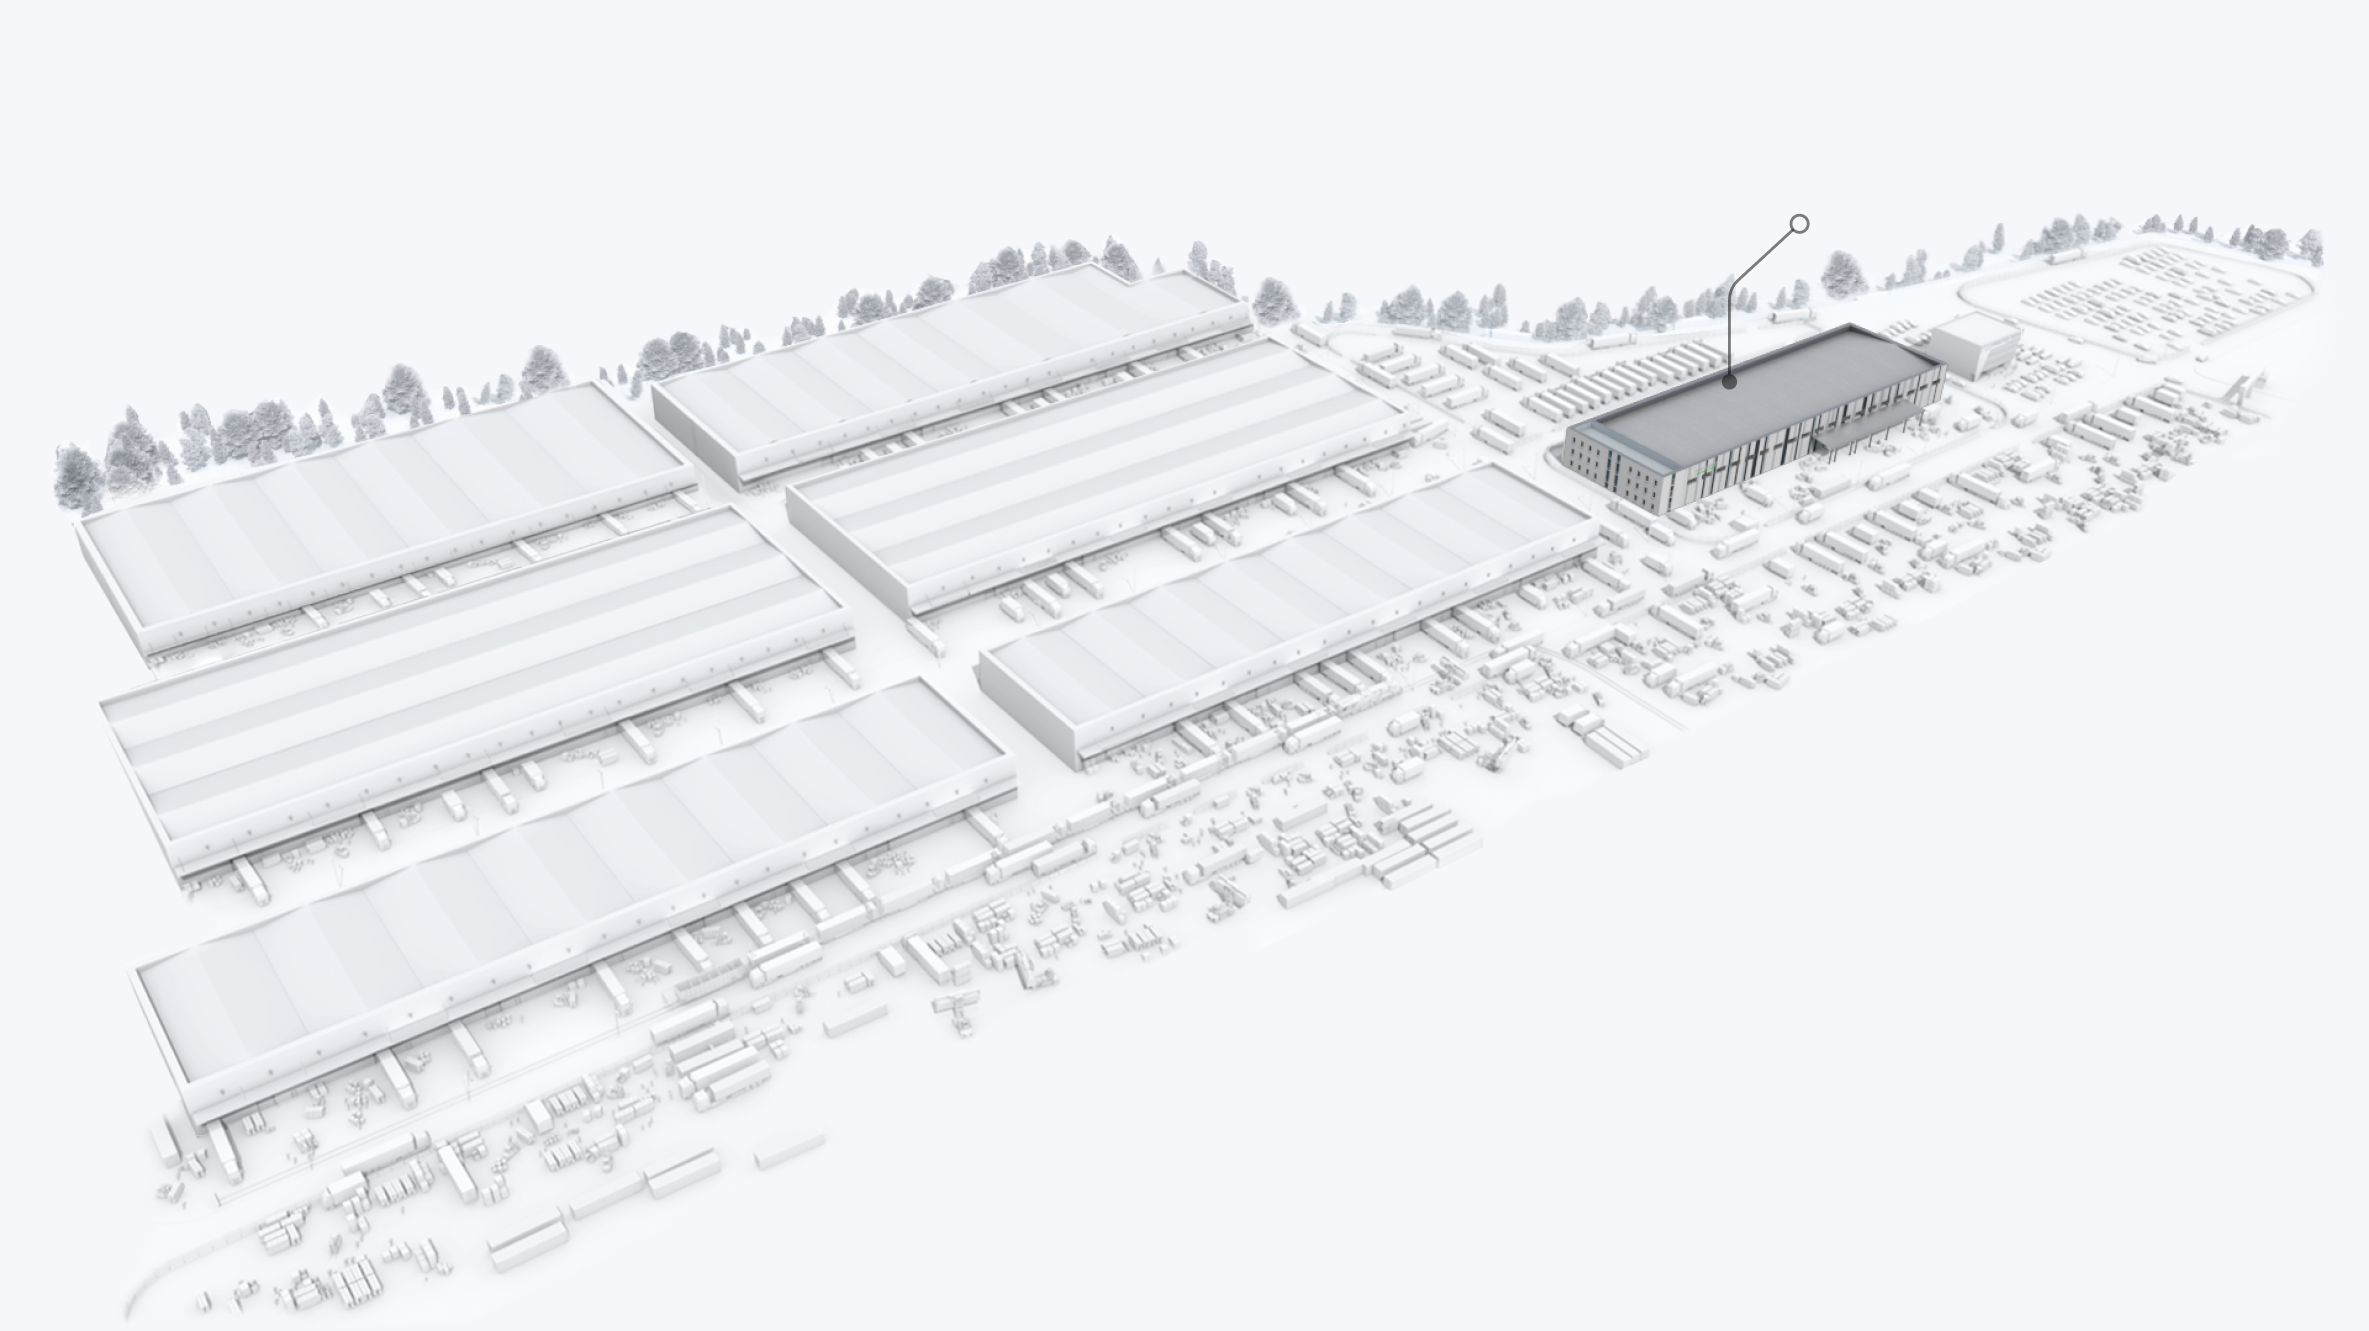
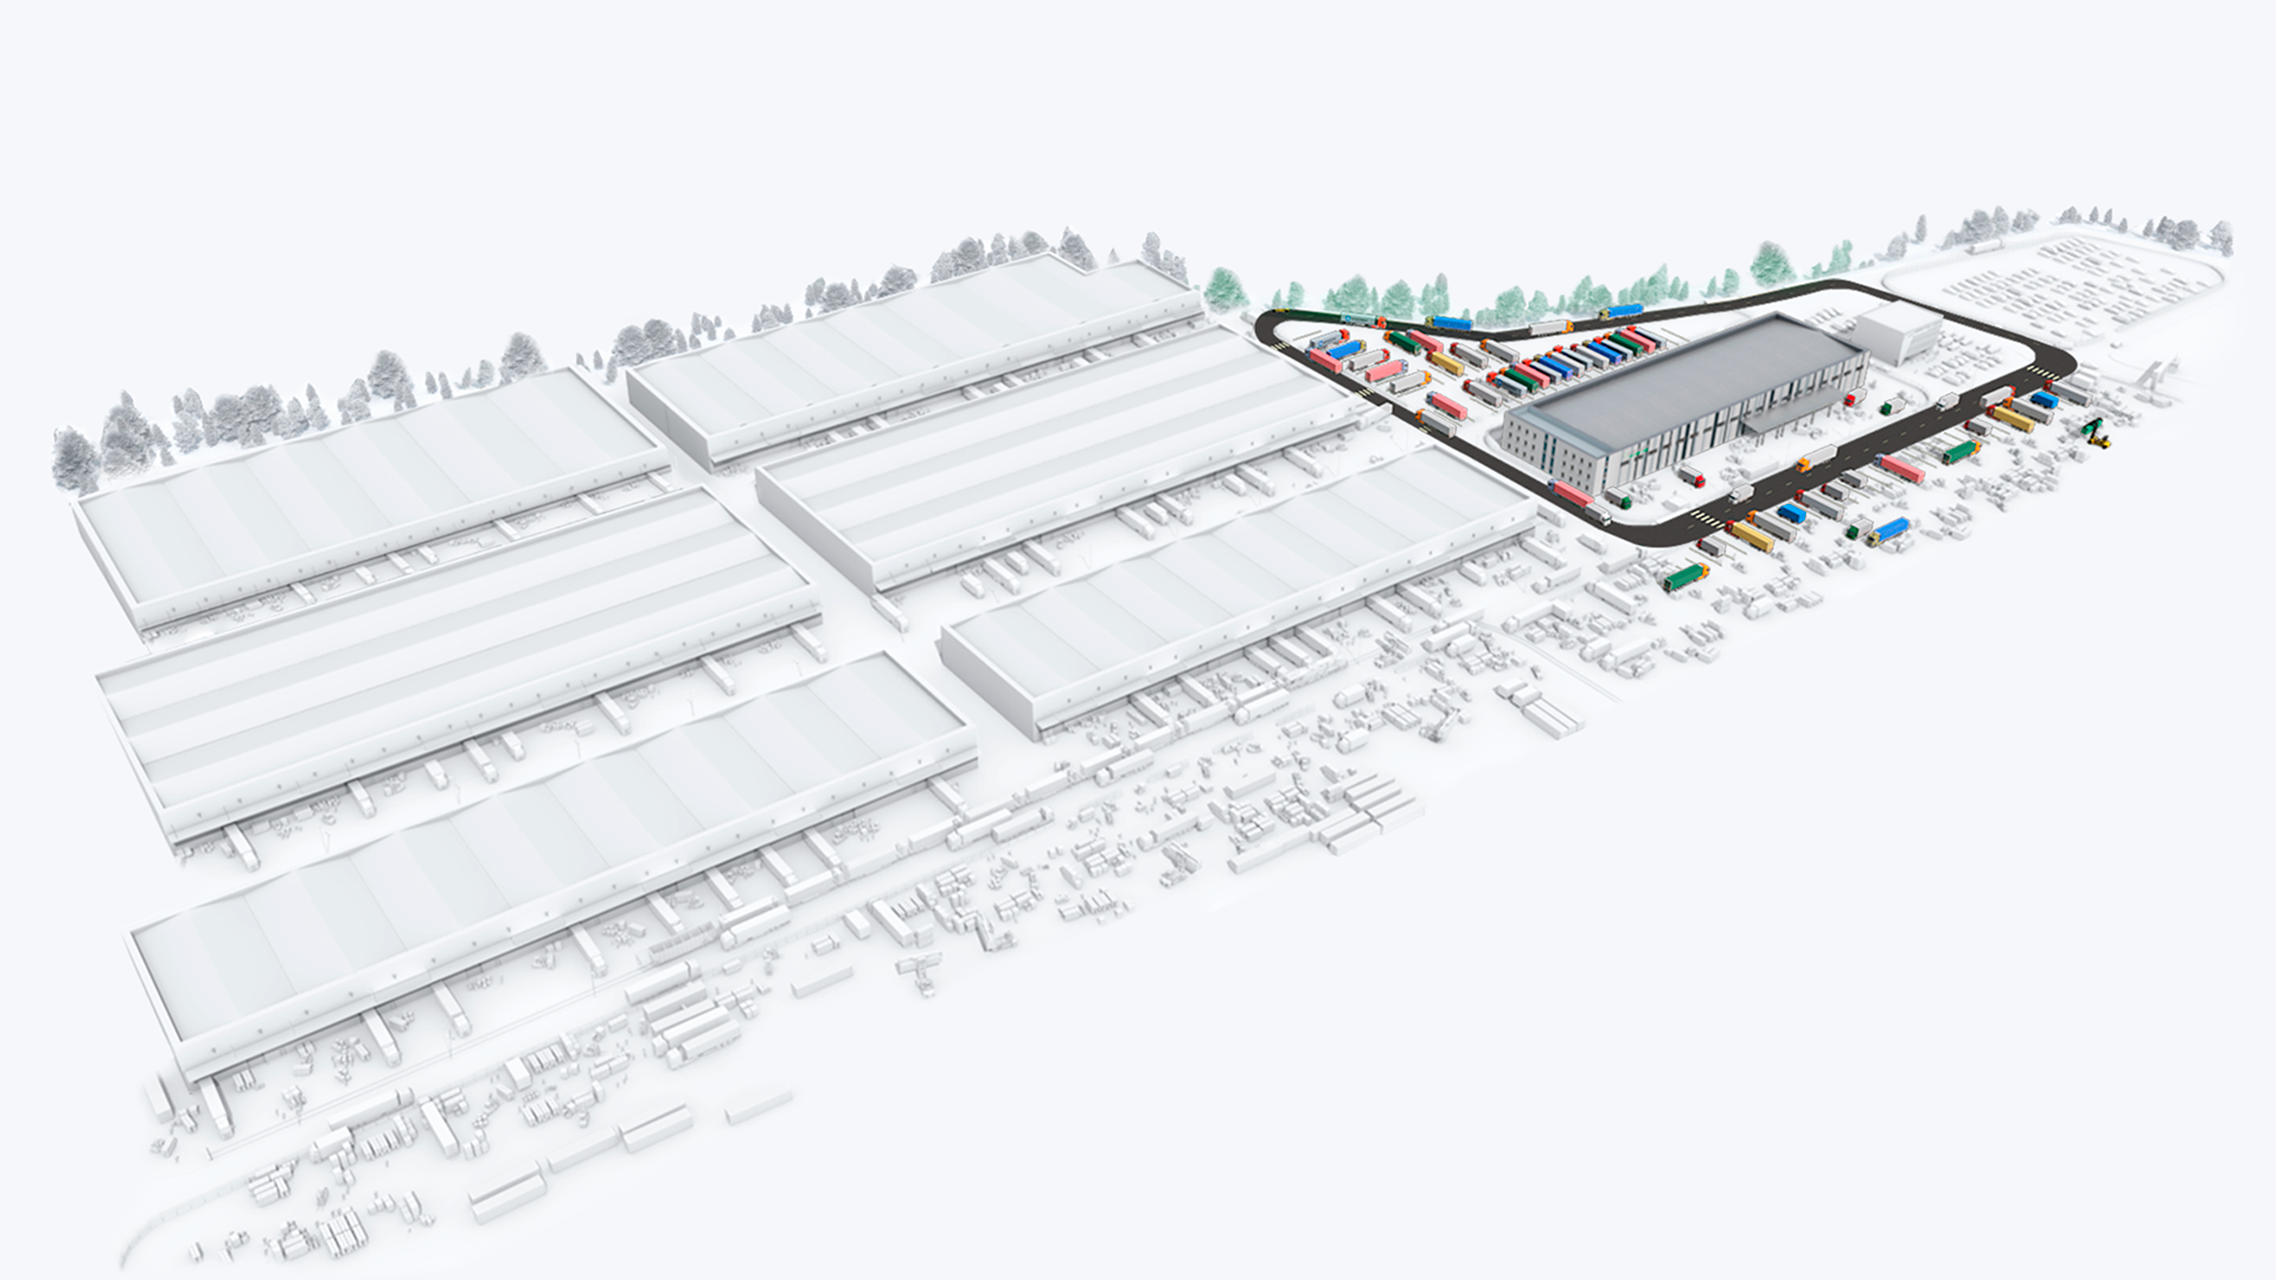
Updated

Changed region(s): [[0.5303, 0.1875, 0.9359, 0.4688], [0.7487, 0.3125, 0.7799, 0.3438]]

diff --git a/style.css b/style.css
@@ -3603,6 +3603,7 @@ input.Main-Button {
 
 .Image-hover-items {
     position: relative;
+
 }
 
 .Image-hover-items img {
@@ -3610,29 +3611,25 @@ input.Main-Button {
     opacity: 0.5;
 }
 
+@keyframes fade-in-down {
+    0% {
+        opacity: 0;
+        transform: translateY(-20px) translate(0);
+        -webkit-transform: translateY(-20px) translateX(0);
+        -moz-transform: translateY(-20px) translateX(0);
+        -ms-transform: translateY(-20px) translateX(0);
+        -o-transform: translateY(-20px) translateX(0)
+    }
 
-.Image-hover-items img:nth-child(1) {
-    right: 17.6vw;
-    top: 13.5vw;
-    height: fit-content;
-    width: 16.2vw;
+    to {
+        opacity: 1;
+        transform: translateY(0) translate(0);
+        -webkit-transform: translateY(0) translateX(0);
+        -moz-transform: translateY(0) translateX(0);
+        -ms-transform: translateY(0) translateX(0);
+        -o-transform: translateY(0) translateX(0)
+    }
 }
-
-body.zoom-08 .Image-hover-items img:nth-child(1) {
-    right: 22vw;
-    top: 16.8vw;
-    height: fit-content;
-    width: 20vw;
-}
-
-body.zoom-085 .Image-hover-items img:nth-child(1) {
-    right: 20.8vw;
-    top: 15.8vw;
-    height: fit-content;
-    width: 19vw;
-}
-
-
 
 .Sidepanel-Map-hover-img {
     width: 100%;
@@ -3647,50 +3644,18 @@ body.zoom-085 .Image-hover-items img:nth-child(1) {
     right: 0;
     bottom: 0;
     margin-right: 8rem;
-    margin-bottom: 8rem;
+    margin-bottom: 10rem;
 }
 
-
-
-
-
-
-
-.Image-hover-items img:nth-child(1) {
-    right: 17.6vw;
-    top: 13.5vw;
-    height: fit-content;
-    width: 16.2vw;
-    z-index: 1;
-    /* opacity: 0; */
-}
-
-body.zoom-08 .Image-hover-items img:nth-child(1) {
-    right: 22vw;
-    top: 16.8vw;
-    height: fit-content;
-    width: 20vw;
-}
-
-body.zoom-085 .Image-hover-items img:nth-child(1) {
-    right: 20.8vw;
-    top: 15.8vw;
-    height: fit-content;
-    width: 19vw;
-}
-
-
-
- 
 .Sidepanel-Map-hover-img {
     display: none;
 }
- 
+
 #map_default {
     display: flex;
 }
 
- 
+
 .Sidepanel-Map-hover-text-group .faq-item {
     display: none;
 }
@@ -3707,10 +3672,130 @@ body.zoom-085 .Image-hover-items img:nth-child(1) {
 
 
 
+.Image-hover-items img:nth-child(1) {
+    right: 17.6vw;
+    top: 13.5vw;
+    height: fit-content;
+    width: 16.2vw;
+    opacity: 0;
+}
+
+body.zoom-08 .Image-hover-items img:nth-child(1) {
+    right: 22vw;
+    top: 16.8vw;
+    height: fit-content;
+    width: 20vw;
+}
+
+body.zoom-085 .Image-hover-items img:nth-child(1) {
+    right: 20.8vw;
+    top: 15.8vw;
+    height: fit-content;
+    width: 19vw;
+}
+
+.Image-hover-items img:nth-child(2) {
+    right: 14.6vw;
+    top: 13vw;
+    height: fit-content;
+    width: 4.2vw;
+    z-index: 1;
+    opacity: 0;
+}
+
+body.zoom-08 .Image-hover-items img:nth-child(2) {
+    right: 18.2vw;
+    top: 16.3vw;
+    height: fit-content;
+    width: 4.9vw;
+    z-index: 1;
+}
+
+body.zoom-085 .Image-hover-items img:nth-child(2) {
+    right: 17vw;
+    top: 15.3vw;
+    height: fit-content;
+    width: 4.7vw;
+    z-index: 1;
+}
 
 
+.Image-hover-items img:nth-child(3) {
+    right: 2.6vw;
+    top: 10vw;
+    height: fit-content;
+    width: 14.5vw;
+    z-index: 0;
+    opacity: 0;
+}
+
+body.zoom-08 .Image-hover-items img:nth-child(3) {
+    right: 3vw;
+    top: 12.5vw;
+    height: fit-content;
+    width: 18.2vw;
+
+}
+
+body.zoom-085 .Image-hover-items img:nth-child(3) {
+    right: 3vw;
+    top: 12vw;
+    height: fit-content;
+    width: 16.8vw;
+
+}
 
 
+.Image-hover-items img:nth-child(4) {
+    right: 69.8vw;
+    top: 15.5vw;
+    height: fit-content;
+    width: 26.5vw;
+    z-index: 0;
+    opacity: 0;
+}
+
+body.zoom-08 .Image-hover-items img:nth-child(4) {
+    right: 87.5vw;
+    top: 19.5vw;
+    height: fit-content;
+    width: 33vw;
+    z-index: 0;
+
+}
+
+body.zoom-085 .Image-hover-items img:nth-child(4) {
+    right: 82.5vw;
+    top: 18.3vw;
+    height: fit-content;
+    width: 31vw;
+    z-index: 0;
+
+}
 
 
+.Image-hover-items img:nth-child(5) {
+    right: 47vw;
+    top: 11vw;
+    height: fit-content;
+    width: 25vw;
+    z-index: 0;
+    opacity: 0;
+}
 
+body.zoom-08 .Image-hover-items img:nth-child(5) {
+    right: 58.5vw;
+    top: 13.5vw;
+    height: fit-content;
+    width: 31.5vw;
+    z-index: 0;
+}
+
+body.zoom-085 .Image-hover-items img:nth-child(5) {
+    right: 55vw;
+    top: 12.9vw;
+    height: fit-content;
+    width: 29.5vw;
+    z-index: 0;
+
+}

diff --git a/opportunities/master-plan.html b/opportunities/master-plan.html
@@ -282,6 +282,8 @@
             <img class="Sidepanel-Map-hover-img-item" src="../assets/map/azplay_hover.png" data-target="azplay">
             <img class="Sidepanel-Map-hover-img-item" src="../assets/map/biznespark_hover.png" data-target="biznespark">
             <img class="Sidepanel-Map-hover-img-item" src="../assets/map/parking_hover.png" data-target="parking">
+            <img class="Sidepanel-Map-hover-img-item" src="../assets/map/faza_1_a_hover.png" data-target="faza_1_a">
+            <img class="Sidepanel-Map-hover-img-item" src="../assets/map/faza_1_b_hover.png" data-target="faza_1_b">
         </div>
 
         <!-- Map images - use unique IDs -->
@@ -289,9 +291,11 @@
         <img class="Sidepanel-Map-hover-img" src="../assets/map/azplay.png" id="map_azplay">
         <img class="Sidepanel-Map-hover-img" src="../assets/map/biznespark.png" id="map_biznespark">
         <img class="Sidepanel-Map-hover-img" src="../assets/map/parking.png" id="map_parking">
+        <img class="Sidepanel-Map-hover-img" src="../assets/map/faza_1_a.png" id="map_faza_1_a">
+        <img class="Sidepanel-Map-hover-img" src="../assets/map/faza_1_b.png" id="map_faza_1_b">
 
         <div class="Sidepanel-Map-hover-text-group faq-container">
-            <!-- FAQ items - use data-target to match -->
+            <!-- FAQ items -->
             <div class="faq-item Area-Style Info-Text-Group" data-target="azplay">
                 <div class="faq-question">
                     Azplay
@@ -304,7 +308,6 @@
                     </p>
                 </div>
             </div>
-
             <div class="faq-item Area-Style Info-Text-Group" data-target="biznespark">
                 <div class="faq-question">
                     Biznes Park
@@ -317,10 +320,33 @@
                     </p>
                 </div>
             </div>
-
             <div class="faq-item Area-Style Info-Text-Group" data-target="parking">
                 <div class="faq-question">
                     parking
+                    <img src="../assets/svg/chevron_down.svg" alt="toggle" class="faq-icon">
+                </div>
+                <div class="faq-answer Info-Text-Group">
+                    <p class="Info-Headline">Lorem ipsum dolor sit amet,</p>
+                    <p class="Info-Text">
+                        Lorem ipsum dolor sit amet, consectetur adipiscing elit...
+                    </p>
+                </div>
+            </div>
+            <div class="faq-item Area-Style Info-Text-Group" data-target="faza_1_a">
+                <div class="faq-question">
+                    Faza 1 A
+                    <img src="../assets/svg/chevron_down.svg" alt="toggle" class="faq-icon">
+                </div>
+                <div class="faq-answer Info-Text-Group">
+                    <p class="Info-Headline">Lorem ipsum dolor sit amet,</p>
+                    <p class="Info-Text">
+                        Lorem ipsum dolor sit amet, consectetur adipiscing elit...
+                    </p>
+                </div>
+            </div>
+            <div class="faq-item Area-Style Info-Text-Group" data-target="faza_1_b">
+                <div class="faq-question">
+                    Faza 1 B
                     <img src="../assets/svg/chevron_down.svg" alt="toggle" class="faq-icon">
                 </div>
                 <div class="faq-answer Info-Text-Group">

diff --git a/js/map.js b/js/map.js
@@ -346,3 +346,84 @@ document.addEventListener('DOMContentLoaded', function() {
         }, 100);
     });
 });
+
+// Scroll to top button
+(function() {
+    if (window.innerWidth <= 1024) return; // Only run on desktop
+    
+    const sidepanelMap = document.querySelector('.Sidepanel-Map-hover');
+    if (!sidepanelMap) return;
+    
+    let isScrolling = false;
+    let mouseX = 0;
+    let mouseY = 0;
+    
+    document.addEventListener('mousemove', function(e) {
+        mouseX = e.clientX;
+        mouseY = e.clientY;
+    });
+    
+    function smoothScrollToSidepanel() {
+        if (isScrolling) return;
+        
+        isScrolling = true;
+        const targetPosition = sidepanelMap.getBoundingClientRect().top + window.pageYOffset + 40;
+        const startPosition = window.pageYOffset;
+        const distance = targetPosition - startPosition;
+        let startTime = null;
+        const duration = 800;  
+        
+        function animateScroll(currentTime) {
+            if (!startTime) startTime = currentTime;
+            const timeElapsed = currentTime - startTime;
+            
+            if (timeElapsed < duration) {
+                const progress = timeElapsed / duration;
+                const easeProgress = progress < 0.5 
+                    ? 4 * progress * progress * progress 
+                    : 1 - Math.pow(-2 * progress + 2, 3) / 2;
+                
+                const currentScroll = startPosition + (distance * easeProgress);
+                window.scrollTo(0, currentScroll);
+                
+                if (progress > 0.5) {
+                    const elementUnderMouse = document.elementFromPoint(mouseX, mouseY);
+                    if (elementUnderMouse && elementUnderMouse.classList.contains('Sidepanel-Map-hover-img-item')) {
+                        elementUnderMouse.dispatchEvent(new MouseEvent('mouseover', { bubbles: true }));
+                    }
+                }
+                
+                requestAnimationFrame(animateScroll);
+            } else {
+                window.scrollTo(0, targetPosition);
+                isScrolling = false;
+            }
+        }
+        
+        requestAnimationFrame(animateScroll);
+    }
+    
+    document.querySelectorAll('.Sidepanel-Map-hover-img-item').forEach(item => {
+        let hoverTimeout;
+        
+        item.addEventListener('mouseenter', function(e) {
+            clearTimeout(hoverTimeout);
+            
+            hoverTimeout = setTimeout(() => {
+                smoothScrollToSidepanel();
+            }, 50);
+        });
+        
+        item.addEventListener('mouseleave', function() {
+            clearTimeout(hoverTimeout);
+        });
+        
+        item.addEventListener('click', function() {
+            sidepanelMap.scrollIntoView({ behavior: 'smooth', block: 'start' });
+        });
+        
+        item.addEventListener('touchstart', function() {
+            sidepanelMap.scrollIntoView({ behavior: 'smooth', block: 'start' });
+        }, { passive: true });
+    });
+})();
